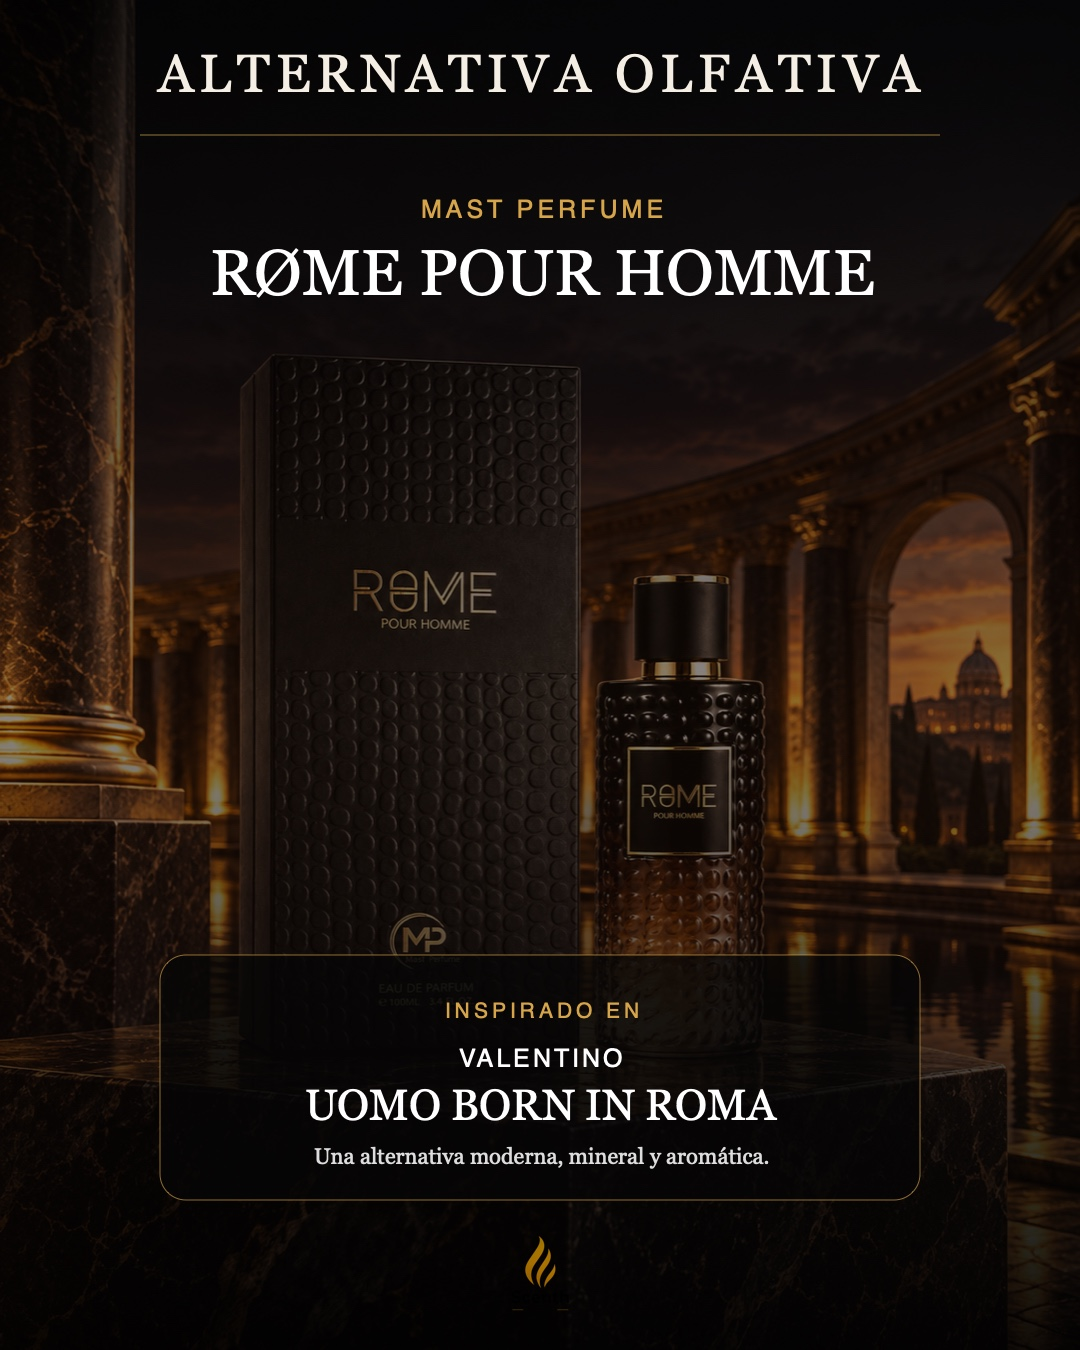
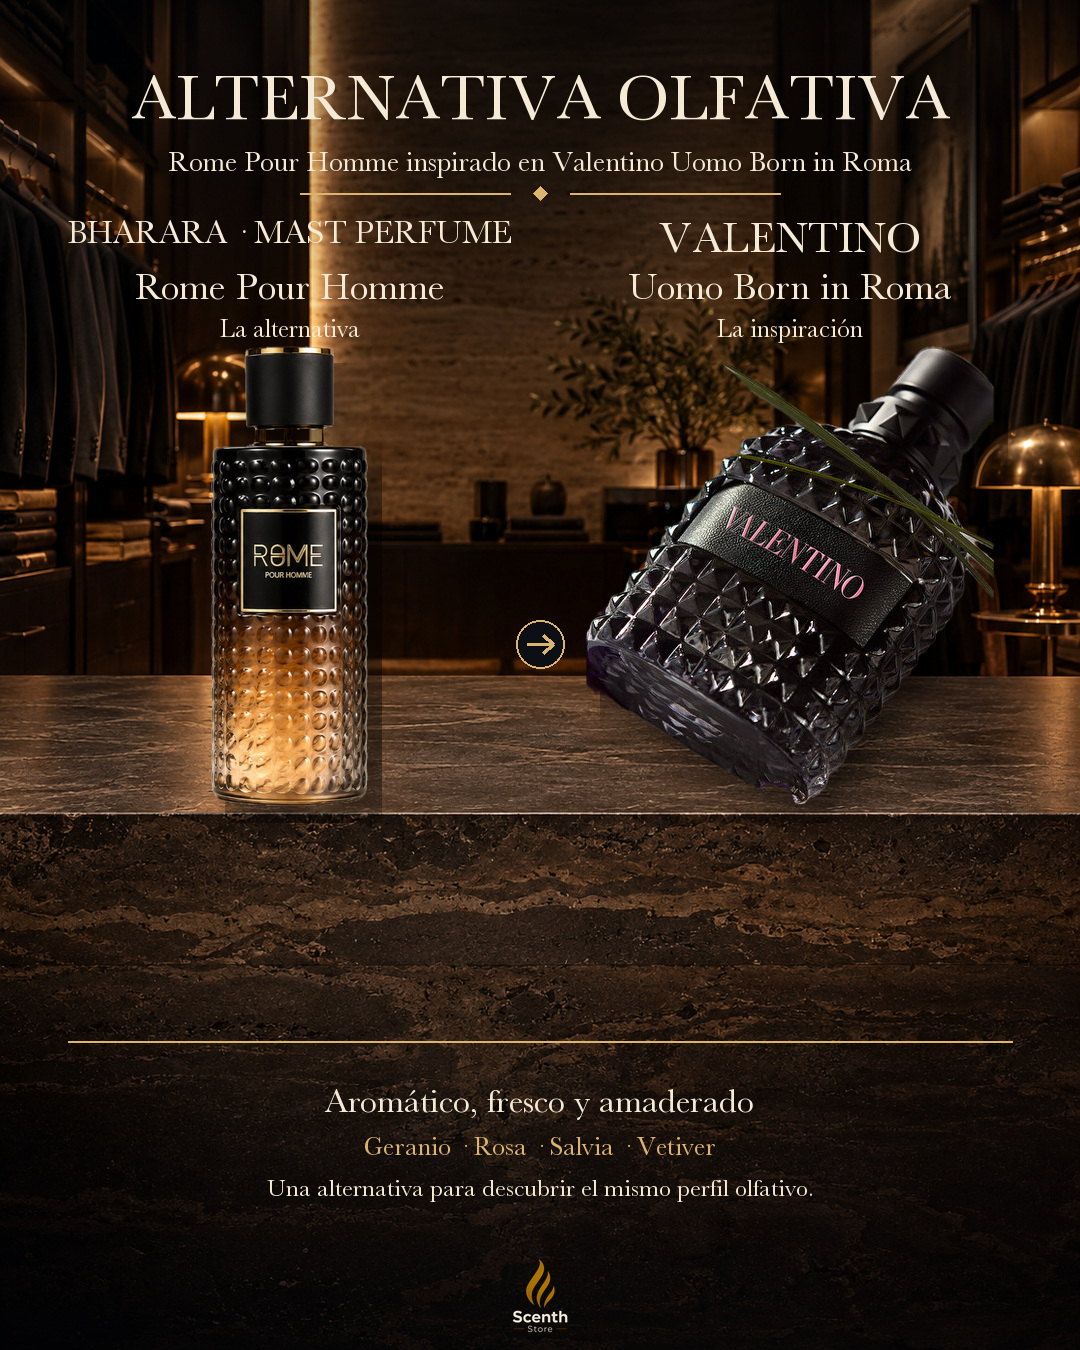
Correct perfume notes and distinct comparison artwork

diff --git a/product-details.js b/product-details.js
@@ -169,7 +169,7 @@ const GENERATED_DETAIL_GALLERIES = {
     'lorenzo-pazzaglia-summer-hammer': false
 };
 
-const GENERATED_ASSET_VERSION = '20260930-1';
+const GENERATED_ASSET_VERSION = '20260930-2';
 
 Object.entries(GENERATED_DETAIL_GALLERIES).forEach(([slug, hasAlternative]) => {
     const current = window.CATALOG_DETAILS[slug] || {};
@@ -266,8 +266,8 @@ const SHORT_PRODUCT_DESCRIPTIONS = {
     'lattafa-asad-elixir': 'Especias, tabaco y maderas se suavizan con vainilla y ámbar. Intensa, cálida y con un perfil oscuro para la noche.',
     'dior-sauvage-eau-de-parfum': 'Bergamota y pimienta se mezclan con lavanda, ambroxan y vainilla. Fresca, especiada y elegante, con excelente versatilidad.',
     'chanel-bleu-de-chanel-eau-de-parfum': 'Cítricos y notas aromáticas dan paso a incienso, sándalo y cedro. Refinada, amaderada y adecuada para cualquier ocasión.',
-    'maison-alhambra-salvo-elixir': 'Especias intensas, lavanda y un fondo profundo de regaliz, ámbar y maderas. Potente, oscuro y elegante para la noche.',
-    'mast-perfume-rome-pour-homme': 'Geranio, jengibre y salvia descansan sobre cedro, vetiver y maderas. Aromática, moderna y de carácter masculino.',
+    'maison-alhambra-salvo-elixir': 'Pimienta negra, tabaco y piña dan paso a pachulí, iris y café, sobre un fondo ambarado, vainillado y amaderado. Intenso para la noche.',
+    'mast-perfume-rome-pour-homme': 'Geranio y rosa abren paso a salvia y jengibre, sobre una base de cedro y vetiver. Aromático, fresco y amaderado.',
     'rasasi-hawas-tropical': 'Agua de coco, higo y menta se funden con sándalo, tonka y almizcle. Tropical, verde y cremosa para los días cálidos.',
     'lorenzo-pazzaglia-summer-hammer': 'Mango, piña, coco y ron blanco se encuentran con notas marinas, sándalo y ámbar. Un extrait tropical, intenso y luminoso.',
     'yves-saint-laurent-y-eau-de-parfum': 'Manzana, bergamota y jengibre se unen a salvia, enebro, tonka y maderas. Fresca, limpia y marcadamente masculina.',
